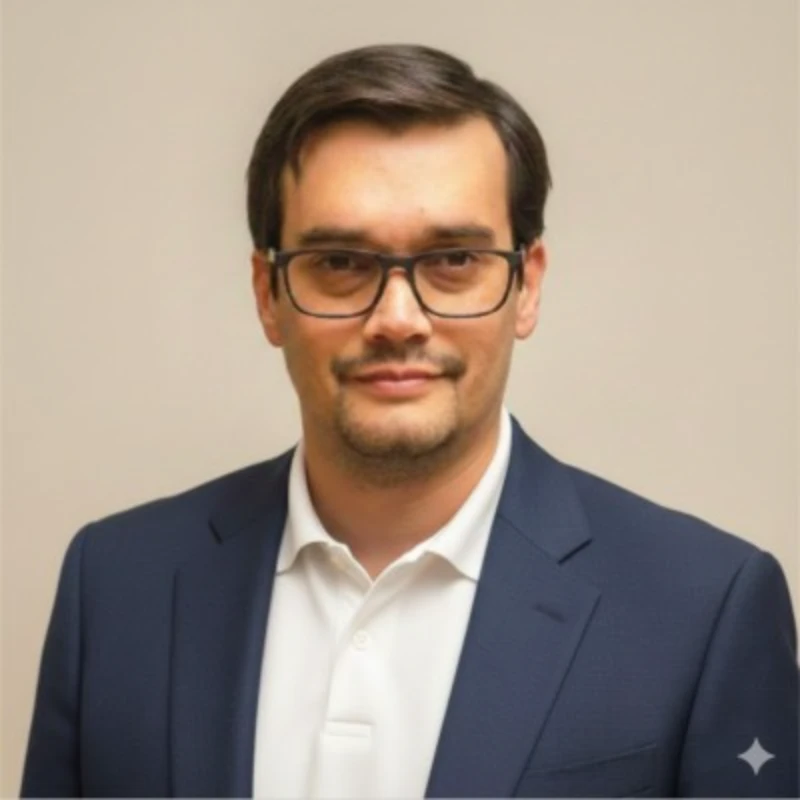
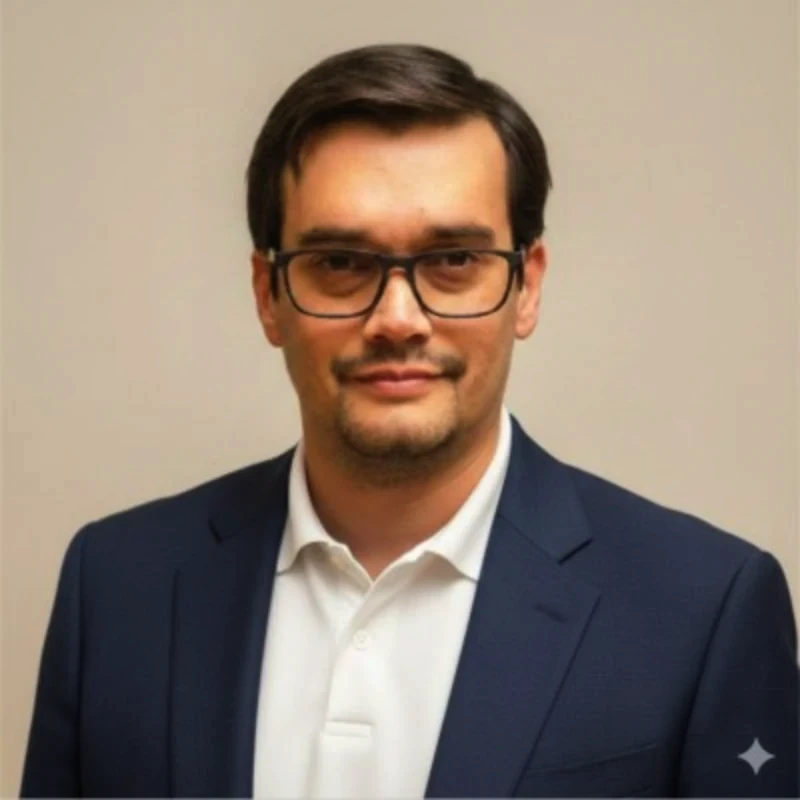
Igualar la exposición de los retratos, y no enseñar una foto que aún no existe
LO QUE VEÍAS ROTO

Las dos fotos subieron bien: están en el repositorio, son WebP válidos de
800x800. Lo que fallaba es que el panel enseña la foto por su dirección
pública, y esa dirección NO existe hasta que termina el despliegue —dos o
tres minutos—. Así que justo después de subir salía el icono de imagen
rota. La foto estaba bien; lo que estaba mal era enseñar una dirección que
todavía no existe.

Ahora el panel enseña el recorte que acaba de hacer, que ya tiene en
memoria, y el aviso dice cuándo se verá en la web. Si la dirección falla de
todas formas, en vez del icono roto sale «publicándose». Y «Recolocar»
justo después de subir ya no responde «No se pudo abrir la foto guardada»
—que suena a archivo corrupto— porque trabaja sobre el original en memoria.

LA EXPOSICIÓN

Al verlas juntas apareció otra cosa: los tres retratos daban 29, 84 y 75 de
luminosidad media. Dos vienen con fondo claro de estudio y uno con fondo
navy, y en fila se leían como dos encendidas y una apagada. El duotono
iguala el TONO, no la luz.

No se arregla con más filtro, y lo comprobé midiendo: brillo y multiply son
multiplicativos, así que conservan la proporción entre una foto clara y una
oscura —bajar las claras baja también la oscura—. Con brillo al 78% y un
velo más fuerte seguían en 29 contra 84.

Se corrige en el archivo, una vez: una curva de gamma que lleva la media al
mismo objetivo. Gamma y no sumar brillo, que desplaza todo y aplasta blancos
[…]

diff --git a/src/admin/Autores.jsx b/src/admin/Autores.jsx
@@ -57,6 +57,71 @@ function cargarImagen(archivo) {
  * imagen; `zoom` la encoge. La misma función pinta la vista previa y el archivo
  * final, así que lo que se ve es exactamente lo que se guarda.
  */
+/**
+ * Iguala la exposición del recorte.
+ *
+ * ---- Por qué hace falta ----
+ *
+ * Las fotos de un equipo pequeño no vienen de la misma sesión: una con fondo
+ * navy de estudio, otra con fondo gris claro. El tratamiento de la web las
+ * lleva al mismo tono, pero no a la misma luminosidad, y puestas en fila se
+ * leían como dos encendidas y una apagada. Medido en la página: 29, 84 y 75.
+ *
+ * No se arregla con más filtro. Brillo y multiply son operaciones
+ * multiplicativas, así que conservan la proporción entre una foto clara y una
+ * oscura: bajar las claras baja también la oscura. Hay que corregir el archivo,
+ * y una sola vez, al guardarlo.
+ *
+ * ---- Cómo ----
+ *
+ * Una curva de gamma que lleva la media de la imagen a un objetivo común.
+ * Gamma y no sumar brillo: sumar desplaza todo y aplasta blancos y negros
+ * contra los topes; la gamma respeta los extremos y mueve los medios, que es
+ * donde está la cara.
+ *
+ * El ajuste está limitado a propósito. Sin tope, un retrato a contraluz o uno
+ * sobre fondo negro se convertiría en otra fotografía distinta, y esto es
+ * corregir una diferencia de estudio, no reinterpretar el retrato de nadie.
+ */
+const EXPOSICION_OBJETIVO = 128;
+const GAMMA_MIN = 0.55;
+const GAMMA_MAX = 1.9;
+
+function igualarExposicion(lienzo) {
+  const ctx = lienzo.getContext('2d', { willReadFrequently: true });
+  let datos;
+  try {
+    datos = ctx.getImageData(0, 0, lienzo.width, lienzo.height);
+  } catch {
+    /* Un lienzo contaminado por una imagen de otro dominio no se puede leer.
+       No es motivo para perder la foto: se guarda sin igualar. */
+    return lienzo;
+  }
+  const px = datos.data;
+  let suma = 0;
+  for (let i = 0; i < px.length; i += 4) {
+    suma += 0.2126 * px[i] + 0.7152 * px[i + 1] + 0.0722 * px[i + 2];
+  }
+  const media = suma / (px.length / 4);
+  if (media < 4 || media > 251) return lienzo;
+
+  let gamma = Math.log(EXPOSICION_OBJETIVO / 255) / Math.log(media / 255);
+  gamma = Math.min(GAMMA_MAX, Math.max(GAMMA_MIN, gamma));
+  if (Math.abs(gamma - 1) < 0.03) return lienzo;
+
+  /* Tabla de 256 entradas en vez de una potencia por canal y por píxel: en una
+     imagen de 800x800 son 1,9 millones de llamadas a Math.pow, y se nota. */
+  const tabla = new Uint8ClampedArray(256);
+  for (let v = 0; v < 256; v += 1) tabla[v] = Math.round(255 * (v / 255) ** gamma);
+  for (let i = 0; i < px.length; i += 4) {
+    px[i] = tabla[px[i]];
+    px[i + 1] = tabla[px[i + 1]];
+    px[i + 2] = tabla[px[i + 2]];
+  }
+  ctx.putImageData(datos, 0, 0);
+  return lienzo;
+}
+
 function recortar(img, { x, y, zoom }, lado) {
   const corte = Math.min(img.width, img.height) / zoom;
   const lienzo = document.createElement('canvas');
@@ -68,6 +133,11 @@ function recortar(img, { x, y, zoom }, lado) {
   );
   return lienzo;
 }
+
+/* El recorte que se publica va igualado; el original NO. El original existe
+   para poder reencuadrar más tarde, y corregirlo también significaría aplicar
+   la curva dos veces la próxima vez que se recorte desde él. */
+const recorteFinal = (img, enc, lado) => igualarExposicion(recortar(img, enc, lado));
 
 /**
  * El original, reducido a 1200 px de lado mayor.
@@ -132,7 +202,11 @@ function Encuadre({ img, alConfirmar, alCancelar, ocupado, sinOriginal }) {
     ctx.beginPath();
     ctx.arc(PREVIA / 2, PREVIA / 2, PREVIA / 2, 0, Math.PI * 2);
     ctx.clip();
-    ctx.drawImage(recortar(img, enc, PREVIA), 0, 0);
+    /* La vista previa lleva la misma corrección de exposición que el archivo
+       que se guarda. Sin ella, lo que se ve al encuadrar y lo que acaba en la
+       web serían dos imágenes distintas, y la primera vez que alguien lo note
+       será porque la foto publicada no es la que eligió. */
+    ctx.drawImage(recorteFinal(img, enc, PREVIA), 0, 0);
     ctx.restore();
   }, [img, enc]);
 
@@ -228,7 +302,7 @@ function Encuadre({ img, alConfirmar, alCancelar, ocupado, sinOriginal }) {
 
       <Fila gap={8}>
         <Boton variante="quieto" onClick={alCancelar} disabled={ocupado}>Cancelar</Boton>
-        <Boton variante="fuerte" onClick={() => alConfirmar(recortar(img, enc, LADO).toDataURL('image/webp', 0.9))} disabled={ocupado}>
+        <Boton variante="fuerte" onClick={() => alConfirmar(recorteFinal(img, enc, LADO).toDataURL('image/webp', 0.9))} disabled={ocupado}>
           {ocupado ? 'Subiendo…' : 'Usar esta foto'}
         </Boton>
       </Fila>
@@ -238,6 +312,20 @@ function Encuadre({ img, alConfirmar, alCancelar, ocupado, sinOriginal }) {
 
 function Ficha({ entrada, alGuardar, alCerrar }) {
   const [f, setF] = React.useState(entrada.ficha || NUEVA());
+  /* La imagen tal y como se acaba de recortar, en memoria.
+     Hace falta porque la ruta pública de la foto NO existe todavía: el panel
+     escribe el archivo en el repositorio y hasta que el despliegue no termina
+     —dos o tres minutos— esa dirección devuelve 404. El panel enseñaba esa
+     dirección al instante, así que justo después de subir una foto salía el
+     icono de imagen rota. La foto estaba bien; lo que estaba mal era enseñar
+     una dirección que aún no existe. */
+  const [recienSubida, setRecienSubida] = React.useState(null);
+  const [fotoRota, setFotoRota] = React.useState(false);
+  /* El original de la subida recién hecha. Sin esto, «Recolocar» justo después
+     de subir intentaba abrir una dirección que todavía no existe y respondía
+     «No se pudo abrir la foto guardada»: un mensaje que suena a archivo
+     corrupto cuando lo único que pasa es que aún no se ha publicado. */
+  const [originalReciente, setOriginalReciente] = React.useState(null);
   const [error, setError] = React.useState('');
   const [subiendo, setSubiendo] = React.useState(false);
   const [guardando, setGuardando] = React.useState(false);
@@ -282,14 +370,18 @@ function Ficha({ entrada, alGuardar, alCerrar }) {
     setError('');
     /* Del original si existe; si no, del recorte, y entonces la pantalla lo
        dice, porque desde un cuadrado ya recortado solo se puede acercar. */
-    const fuente = f.fotoOriginal || f.foto;
+    const fuente = originalReciente || recienSubida || f.fotoOriginal || f.foto;
     try {
       const img = new Image();
       img.src = fuente;
       await img.decode();
-      setSinOriginal(!f.fotoOriginal);
+      setSinOriginal(!(originalReciente || f.fotoOriginal));
       setPorEncuadrar(img);
-    } catch { setError('No se pudo abrir la foto guardada. Sube el archivo otra vez.'); }
+    } catch {
+      setError(f.foto
+        ? 'La foto todavía se está publicando y aún no se puede abrir desde aquí. Espera dos o tres minutos, o vuelve a subir el archivo.'
+        : 'No se pudo abrir la foto guardada. Sube el archivo otra vez.');
+    }
   };
 
   const confirmarFoto = async (datos) => {
@@ -301,12 +393,17 @@ function Ficha({ entrada, alGuardar, alCerrar }) {
          Al recolocar, la fuente ya es el original guardado: volver a subirlo
          sería recomprimir una copia, y cada vuelta perdería nitidez. */
       let fotoOriginal = f.fotoOriginal;
+      let originalEnMemoria = originalReciente;
       if (porEncuadrar?.src.startsWith('data:')) {
-        const r = await api.subirFoto({ id: f.id, variante: 'original', datos: original(porEncuadrar) });
+        originalEnMemoria = original(porEncuadrar);
+        const r = await api.subirFoto({ id: f.id, variante: 'original', datos: originalEnMemoria });
         fotoOriginal = r.foto;
       }
       const siguiente = { ...f, foto, fotoOriginal };
       setF(siguiente);
+      setRecienSubida(datos);
+      setOriginalReciente(originalEnMemoria);
+      setFotoRota(false);
       setPorEncuadrar(null);
 
       /* Y se guarda la ficha en el acto. Antes no: la foto se subía al
@@ -317,7 +414,7 @@ function Ficha({ entrada, alGuardar, alCerrar }) {
          segundo paso que tenga sentido pedir. */
       const r = await api.guardarAutor({ ficha: siguiente, sha: entrada.sha });
       entrada.sha = r.sha;
-      setNota('Foto guardada.');
+      setNota('Foto guardada. Tarda dos o tres minutos en verse en la web, mientras se publica el sitio.');
       setTimeout(() => setNota(''), 3000);
     } catch (err) { setError(err.message); }
     finally { setSubiendo(false); }
@@ -384,11 +481,22 @@ function Ficha({ entrada, alGuardar, alCerrar }) {
               />
             ) : (
             <>
-            {f.foto
-              ? <img src={f.foto} alt="" width={96} height={96} style={{ width: 96, height: 96, borderRadius: '50%', objectFit: 'cover', display: 'block' }} />
+            {(recienSubida || (f.foto && !fotoRota))
+              ? (
+                <img
+                  src={recienSubida || f.foto}
+                  alt=""
+                  width={96}
+                  height={96}
+                  /* Si la ruta pública todavía no existe, no se deja el icono
+                     de imagen rota: se cambia por un aviso que dice qué pasa. */
+                  onError={() => setFotoRota(true)}
+                  style={{ width: 96, height: 96, borderRadius: '50%', objectFit: 'cover', display: 'block' }}
+                />
+              )
               : (
-                <div style={{ width: 96, height: 96, borderRadius: '50%', border: '1px dashed var(--border-hairline)', display: 'grid', placeItems: 'center', font: 'var(--type-mono)', fontSize: 11, color: 'var(--text-faint)' }}>
-                  sin foto
+                <div style={{ width: 96, height: 96, borderRadius: '50%', border: '1px dashed var(--border-hairline)', display: 'grid', placeItems: 'center', textAlign: 'center', padding: 8, font: 'var(--type-mono)', fontSize: 10, lineHeight: 1.3, color: 'var(--text-faint)' }}>
+                  {f.foto ? 'publicándose' : 'sin foto'}
                 </div>
               )}
             <input ref={campo} type="file" accept="image/webp,image/jpeg,image/png" onChange={elegirFoto} style={{ display: 'none' }} id="foto" />
@@ -580,7 +688,18 @@ export default function Autores({ alCerrar }) {
               background: marco.papel, border: marco.linea, borderRadius: 2, padding: 12 }}
           >
             {e.ficha?.foto
-              ? <img src={e.ficha.foto} alt="" width={40} height={40} style={{ width: 40, height: 40, borderRadius: '50%', objectFit: 'cover', flex: 'none' }} />
+              ? (
+                <img
+                  src={e.ficha.foto}
+                  alt=""
+                  width={40}
+                  height={40}
+                  /* Mientras el despliegue no acaba, la dirección da 404. Un
+                     círculo vacío dice menos que un icono roto, pero no miente. */
+                  onError={(ev) => { ev.currentTarget.style.visibility = 'hidden'; }}
+                  style={{ width: 40, height: 40, borderRadius: '50%', objectFit: 'cover', flex: 'none', border: '1px dashed var(--border-hairline)' }}
+                />
+              )
               : <span style={{ width: 40, height: 40, borderRadius: '50%', border: '1px dashed var(--border-hairline)', flex: 'none' }} />}
             <span style={{ minWidth: 0 }}>
               <span style={{ display: 'block', font: 'var(--type-body)', color: 'var(--text-heading)' }}>{e.ficha?.nombre}</span>

diff --git a/src/components/Retrato.jsx b/src/components/Retrato.jsx
@@ -59,7 +59,7 @@ export const ESTILOS_RETRATO = `
     display: block;
     /* El contraste sube un punto porque quitar el color aplana la cara: sin
        ese punto, el duotono convierte un retrato en una mancha. */
-    filter: grayscale(1) contrast(1.06);
+    filter: grayscale(1) contrast(1.08);
     transform: scale(1.01);
     transition: filter .38s ease, transform .38s ease;
   }
@@ -75,6 +75,20 @@ export const ESTILOS_RETRATO = `
     position: absolute; inset: 0; pointer-events: none;
     mix-blend-mode: screen;
     background: radial-gradient(120% 90% at 78% 6%, rgba(0,255,136,.20) 0%, rgba(0,255,136,0) 58%);
+    transition: opacity .38s ease;
+  }
+  .becomeRetrato .velo {
+    position: absolute; inset: 0; pointer-events: none;
+    /* Viñeta en multiply. Existe porque el duotono iguala el TONO pero no la
+       luminosidad: dos de las tres fotos vienen con fondo claro de estudio y,
+       puestas al lado de una con fondo navy, la fila se leía como dos fotos
+       encendidas y una apagada.
+       La viñeta baja el fondo —que es donde está la diferencia— y deja el
+       centro casi intacto, así que la cara no se oscurece. Sobre una foto que
+       ya es oscura apenas hace nada, que es justo lo que se quiere: corrige
+       solo lo que hay que corregir. */
+    mix-blend-mode: multiply;
+    background: radial-gradient(115% 100% at 50% 40%, rgba(10,14,39,0) 0%, rgba(10,14,39,.10) 46%, rgba(5,7,15,.55) 100%);
     transition: opacity .38s ease;
   }
   .becomeRetrato .reticula {
@@ -102,6 +116,8 @@ export const ESTILOS_RETRATO = `
   .becomeFicha:focus-within .becomeRetrato .tinte { opacity: .3 }
   .becomeFicha:hover .becomeRetrato .luz,
   .becomeFicha:focus-within .becomeRetrato .luz { opacity: .45 }
+  .becomeFicha:hover .becomeRetrato .velo,
+  .becomeFicha:focus-within .becomeRetrato .velo { opacity: .35 }
   .becomeFicha:hover .becomeRetrato .linea,
   .becomeFicha:focus-within .becomeRetrato .linea { transform: scaleX(1) }
 
@@ -111,6 +127,7 @@ export const ESTILOS_RETRATO = `
     .becomeRetrato img,
     .becomeRetrato .tinte,
     .becomeRetrato .luz,
+    .becomeRetrato .velo,
     .becomeRetrato .linea { transition: none }
     .becomeFicha:hover .becomeRetrato img,
     .becomeFicha:focus-within .becomeRetrato img { transform: none }
@@ -145,6 +162,7 @@ export default function Retrato({ nombre, foto, alt }) {
           {iniciales(nombre)}
         </div>
       )}
+      {foto && <span className="velo" aria-hidden="true" />}
       {foto && <span className="tinte" aria-hidden="true" />}
       {foto && <span className="luz" aria-hidden="true" />}
       <span className="reticula" aria-hidden="true" />
